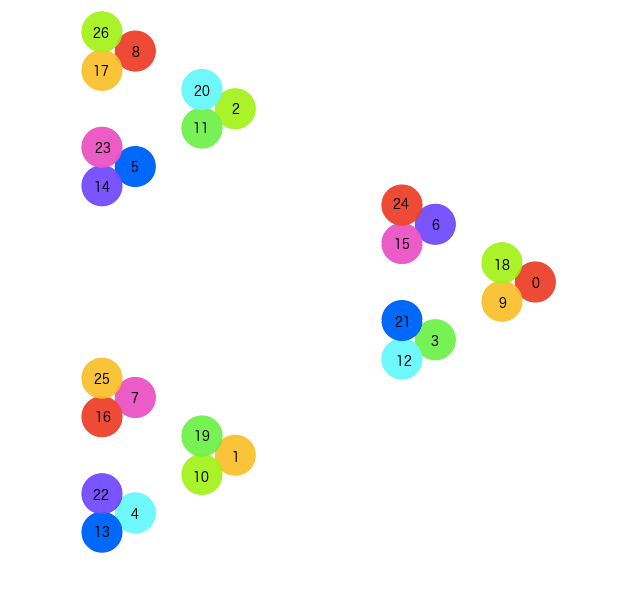
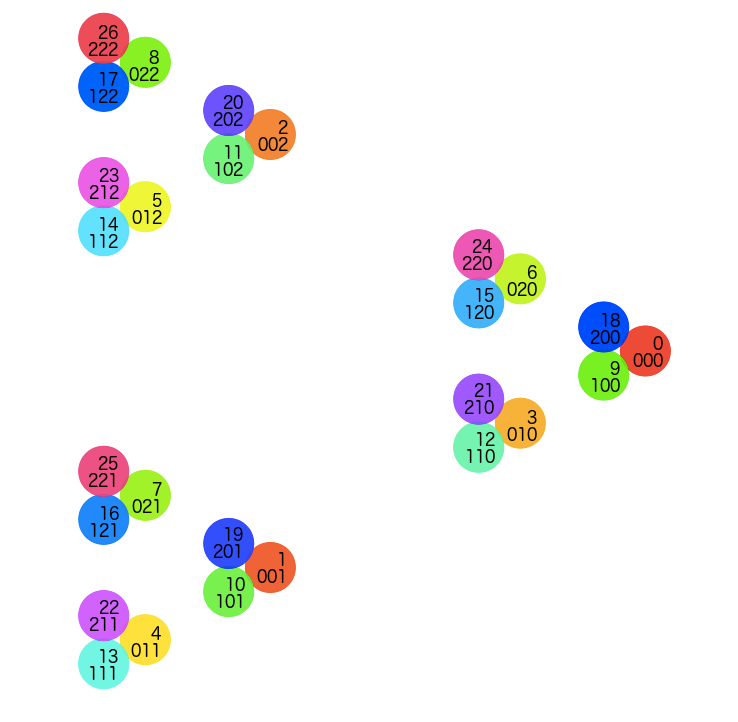
P-adic number post edits

diff --git a/posts/2018-07-25-padic-numbers.html b/posts/2018-07-25-padic-numbers.html
@@ -44,20 +44,22 @@
 </div>
 
 <p>How do we calculate how far apart numbers are?</p>
-<p>This would seem to be an easy questions; just subtract them. 5 is 3 units away from 2, whatever we’re counting. And most of the time, that’s the best answer.</p>
+<p>This would seem to be an easy question; just subtract them. 5 and 2 are 5 - 2 = 3 units away, whatever we’re counting. And most of the time, that’s the best answer.</p>
 <p>But that’s a distance that relies mainly on addition and subtraction. There’s another sort of distance which is more closely related to multiplication, division, and cycles.</p>
 <p>To give a taste of this sort of distance, let’s take hours on a (12-hour) clock. How far apart are 1 and 2? 1 hour. This is the same whether we’re talking about 1 hour of real time passing, 13 hours, or 145 - on the clock, we wrap around every 12 hours. Cycles are a common part of our life; additive and subtractive distances assume that everything can grow infinitely apart, but those aren’t the only sort of distances in our experience.</p>
-<p>This sort of arithmetic, “modular arithmetic”, is an interesting subject in itself. P-adic distances take these cycles a step farther: we can have our cycles, then cycles on cycles, then cycles on cycles on cycles. (Cue a “Yo Dawg” meme here.) We want to be able to <em>refine</em> our analysis at every level. So let’s begin our descent.</p>
-<p>(Specifically, p-adic numbers are going to deal with <em>prime</em> cycles, hence the p-. So we’ll have 3-adic, 5-adic, 7-adic, but not 6-adic numbers. But the reasons why won’t be relevant to the discussion here.)</p>
+<p>This sort of clock arithmetic, “modular arithmetic”, is an interesting subject in itself. P-adic distances take these cycles a step farther: we can have our cycles, then cycles on cycles, then cycles on cycles on cycles. (Cue a “Yo Dawg” meme here.) We want to be able to <em>refine</em> our analysis at every level. So let’s begin our descent.</p>
+<p>(Specifically, p-adic numbers use <em>prime</em> cycles, hence the p-. So we’ll have 3-adic, 5-adic, 7-adic, but not 6-adic numbers. But the reasons why won’t be relevant to the discussion here.)</p>
 <h3 id="cyclical-refinements">Cyclical Refinements</h3>
-<p>Let’s work in the 3-adic norm:</p>
+<p>Let’s work with 3-adic numbers:</p>
 <div class="figure">
 <img src="../images/3-adic.png" alt="3-adic numbers" />
 <p class="caption">3-adic numbers</p>
 </div>
-<p>As one might expect, everything is in threes. The main idea is this: first, we take a number (say 29) and calculate what it is modulo 3 (that is, what is the remainder when divided by 3). This is 2. This first step will take us a distance of 1 from the center, angled toward the top; a number like 10 which is 1 modulo 3 would be in the bottom triangle, and any clean multiple of 3 would be in the rightmost one. (The precise angles are unimportant, as long as we can space them in thirds around the center.)</p>
+<p>As one might expect, everything is in threes. The main idea is this: first, we take a number (say 29) and calculate what it is modulo 3 (that is, what is the remainder when divided by 3). This is 2. This first step will take us a distance of 1 from the center, angled toward the top; a number like 10 which is 1 modulo 3 would be angled toward the bottom triangle, and any clean multiple of 3 toward the rightmost one. (The precise angles are unimportant, as long as we can space them in thirds around the center.)</p>
 <p>But unlike modular arithmetic, we don’t stop there. That’s just the information we got from the first cycle of 3s; what about the next one? That is, how do these numbers compare with regard to 3<em>3, and 3</em>3*3, and so on?</p>
-<p>If you care about how we can calculate these steps: we do it by representing each number in base-3. So 0 is 0, 1 is 1, 2 is 2 … then 3 is 10. 10 is 101, 29 is 1002. Normally, we represent numbers in base-10, so the furthest digit right is the 1s place (10^0), then the 10s place (10^1), then 100s (10^2), and so on. Different bases work the same way, building off of powers of the base. So in base-3, we have a 1s place, a 3s place, a 9s place, a 27s place, and so on. Then the digit furthest right gives us the first triangle we go to:</p>
+<p>We start by representing each number in base-3. So 0 is 0, 1 is 1, 2 is 2 … then 3 is 10. 10 is 101, 29 is 1002.<br />
+Normally, we represent numbers in base-10, so the furthest digit right is the 1s place (10^0), then the 10s place (10^1), then 100s (10^2), and so on. Other bases work the same way, building off of powers of the base. So in base-3, we have a 1s place, a 3s place, a 9s place, a 27s place, and so on.</p>
+<p>The digit furthest right gives us the first triangle destination:</p>
 <div class="figure">
 <img src="../images/3-adic-3.png" alt="3-adic: 0 to 2" />
 <p class="caption">3-adic: 0 to 2</p>
@@ -72,32 +74,48 @@
 <img src="../images/3-adic-27.png" alt="3-adic: 0 to 26" />
 <p class="caption">3-adic: 0 to 26</p>
 </div>
-<p>as far as we want to go. (If you know how to calculate different bases, make sure to work out for yourself that the numbers above have been placed correctly.)</p>
-<p>Representing numbers in different bases isn’t all that unusual, however. That would leave these the same old numbers as always, just with funny costumes. The thing we’ll be doing differently is that, with each digit left we traverse, we’ll make our steps <em>smaller</em>. Normally, we think of changing the 10s place as being much more of an event than changing the 1s place, with the 100s place even more so. And with our normal additive and subtractive distances, that is true. But we’re looking at cycles here. The first cycle, given by our number modulo 3, is the biggest sorter of numbers. After that, we’re making continual <em>refinements</em> - 6 and 18 are both multiples of 3, so are more like each other than either is to 7 in that regard, but 18 is also a multiple of 9, which makes it a little three-ier than 6. It not only can come back to the start in a cycle of 3, but also in 3 cycles of 3. 54 can manage 3 cycles of 3 cycles of 3.</p>
-<p>We can also view these numbers around a circle, given by their distance from 0:</p>
+<p>as far as we want to go.</p>
+<p>Representing numbers in different bases isn’t all that unusual, however. That would leave these the same old numbers as always, just with funny costumes. What we’ll be doing differently is that, with each digit left we traverse, we’ll make our steps <em>smaller</em>. Normally, we think of changing the 10s place as being much more of an event than changing the 1s place, with the 100s place even more so. And with our normal additive and subtractive distances, that is true. But we’re looking at cycles here. The first cycle, given by our number modulo 3, is the biggest sorter of numbers. After that, we’re making continual <em>refinements</em> - 6 and 18 are both multiples of 3, so are more like each other than either is to 7 in that regard, but 18 is also a multiple of 9, which makes it a little three-ier than 6. It not only can come back to the start in a cycle of 3, but also in 3 cycles of 3. 54 can manage 3 cycles of 3 cycles of 3.</p>
+<p>This also leads to a principle of <em>coherence</em>. Let’s take our second level of triangles again:</p>
+<div class="figure">
+<img src="../images/3-adic-9.png" alt="3-adic: Focus on 5" />
+<p class="caption">3-adic: Focus on 5</p>
+</div>
+<p>5 is 12 in base-3 notation (2 in the 1s place, 1 in the 3s place, to give 2<em>1 + 1</em>3 = 5). Now, we add another layer:</p>
+<div class="figure">
+<img src="../images/3-adic-27-2.png" alt="3-adic: Focus on 5, another layer deep" />
+<p class="caption">3-adic: Focus on 5, another layer deep</p>
+</div>
+<p>Take a look at the dots surrounding 5 (12). We just prefix each one by a different digit; 5 is 012 (putting a zero in front doesn’t change the number), 14 is 112, and 23 is 212. As we zoom in, we add our new digits to the left, but everything in that spot will share the same base digits. You can check this out with the triangles starting with 2 and 8 as well.</p>
+<p>So at each step, we tweak our numbers a little more. We take our triangles, and separate them out into triangles, and separate those out into triangles. The farther left we go in our digits, the <em>smaller</em> the distances become, and the closer our new triads of numbers will be in 3-adic distances. This is what will create new numbers for us.</p>
+<p>(We can also view these numbers around a circle, given by their distance from 0:</p>
 <div class="figure">
 <img src="../images/3-adic-circle.png" alt="3-adic norm around a circle" />
 <p class="caption">3-adic norm around a circle</p>
 </div>
-<p>So at each step, we tweak our numbers a little more. We take our triangles, and separate them out into triangles, and separate those out into triangles. The farther left we go in our digits, the <em>smaller</em> the distances become. This is what will create new numbers for us.</p>
-<p>To try out different norms and to watch them animate as numbers flow from one to the next, go to: <a href="https://nomicflux.github.io/PadicVisualization/" class="uri">https://nomicflux.github.io/PadicVisualization/</a>.</p>
+<p>To try out different norms and to watch them animate as numbers flow from one to the next, go to: <a href="https://nomicflux.github.io/PadicVisualization/" class="uri">https://nomicflux.github.io/PadicVisualization/</a>.)</p>
 <h3 id="new-numbers">New Numbers</h3>
 <p>Normally, with numbers, we can create fractions. Then we “fill the gaps” between those fractions; that is how we get the irrational numbers, like pi. We can find the cracks in between any two fractions, and go one level deeper; if we follow all these paths left in between the cracks, we can end up with a <em>completion</em> of the rational numbers, the numbers represented by fractions.</p>
-<p>P-adic numbers have their fractions too, which I won’t get into here (in the visualization, think about being able to zoom out one set of triangles at a time; we can do that a finite number of times, but if you think about it, this doesn’t change the overall picture much. We’ve just added another level of triangles in a stack that’s already triangles all the way down). Remember, sizes and distances are given by how close the numbers are concerning cycles of 3 (or 5, or 7, or other numbers we might be using to compare them). So when we <em>complete</em> this system by filling in the cracks, we won’t be working our way between fractions in the same way. We’ll be finding numbers yet three-ier than have been found before.</p>
-<p>The distance between, say, 3 and 2 is 1; they are not even in the same starting triangle. 5 and 2 are in the same starting triangle, though; 5 - 2 is 3, but the distance will be closer than 1. So we’ll say it’s 1/3 (details on why would require a more in-depth study; for now, the important part is just that it must be smaller than 1 so that the numbers are closer, more three-ly together). 11 - 2 is 9, which being 3*3 must give an even smaller distance, which we’ll say is 1/9; this means that 2 and 11 are not only in the same starting triangle, but the same second-level triangle. So remember that as odd as this seems, it translates literally into how close the numbers are in the visualization:</p>
+<p>P-adic numbers have their fractions too, which I won’t get into here (in the visualization, think about being able to zoom out one extra set of triangles at a time; we can do that a finite number of times, but if you think about it, this doesn’t change the overall picture much. We’ve just added another level of triangles in a stack that’s already triangles all the way down). Remember, sizes and distances are given by how close the numbers are concerning cycles of 3 (or 5, or 7, or other numbers we might be using to compare them). So when we <em>complete</em> this system by filling in the cracks, we won’t be working our way between fractions in the same way. We’ll be finding numbers yet three-ier than have been found before, charting new paths within:</p>
+<div class="figure">
+<img src="../images/3-adic-27-path.png" alt="3-adic: Making a path" />
+<p class="caption">3-adic: Making a path</p>
+</div>
+<p>The distance between, say, 3 and 2 is 1; they are not even in the same starting triangle. 5 and 2 are in the same starting triangle, though; 5 - 2 is 3, but the distance will be closer than 1. So we’ll say it’s 1/3 (details on why would require a more in-depth study; for now, the important part is just that it must be smaller than 1 so that the numbers are closer, more three-ly together). 11 - 2 is 9, which being 3*3 must give an even smaller distance, which we’ll say is 1/9; this means that 2 and 11 are not only in the same starting triangle, but the same second-level triangle. So remember that as odd as this new distance seems, it translates literally into how close the numbers are in the visualization:</p>
 <div class="figure">
 <img src="../images/3-adic-27.png" alt="3-adic: 0 to 26, redux" />
 <p class="caption">3-adic: 0 to 26, redux</p>
 </div>
-<p>To fill this in, we’ll need to extend the numbers outward to the left, exploring numbers which in regards to three-iness are always going one triangle deeper in than what we have. We can extend this to infinity, just like we would go to the right in normal distances with 3.14159…. to get pi.</p>
-<p>When we simply wrote our numbers in base-3, they were the same numbers donning a tri-corner hat. When we changed the way we calculated distances between them, they started getting a little odd, perhaps imbibing too much at the math social. Now, however, we have created an entirely new set of numbers, by tracing paths deeper and deeper into the triangle abyss. Our tipsy digits have launched an expedition to the Pacific and found the ruins of R’lyeh with all it contains. These new numbers simply <em>do not exist</em> in the normal number system. They cannot be created in it, cannot be represented in it.</p>
-<p>(I will not explore the following point more in this article, but in addition to creating eldritch numerosities, we have created a number of numbers which we already know. For example, in 3-adic numbers written in base-3, what would be ….22222 + 1? Carrying the 1 out to infinity, we get - 0. ….22222 is then -1. Starting from positive integers, we have gotten negatives for free. If you play around a bit, you can find that we also have numbers we would have regarded as fractions in our normal numbers, but constructible as these infinite integers.)</p>
+<p>To fill this our paths, we’ll need to extend the numbers outward to the left, exploring numbers which in regards to three-iness are always going one triangle deeper in than what we have. We can extend this to infinity, just like we would keep going to the right in normal distances with 3.14159… to get pi.</p>
+<p>When we simply wrote our numbers in base-3, they were the same numbers donning tri-corner hats. When we changed the way we calculated distances between them, they started getting a little odd, perhaps imbibing too much at the math social. Now, however, we have created an entirely new set of numbers, by tracing paths deeper and deeper into the triangle abyss. Our tipsy digits have launched an expedition to the Pacific and found the ruins of R’lyeh with all it contains. These new numbers simply <em>do not exist</em> in the normal number system. They cannot be created in it, cannot be represented in it.</p>
+<p>(I will not explore the following point more in this article, but in addition to creating eldritch numerosities, we have created a number of numbers that we already know. For example, in 3-adic numbers written in base-3, what would be ….22222 + 1? Carrying the 1 out to infinity, we get: 0. ….22222 is then -1. Starting from positive integers, we have gotten negatives for free. If you play around a bit, you can find that we also have numbers we would have regarded as fractions in our normal numbers, but constructible as these infinite integers.)</p>
 <h3 id="continuous-analysis">Continuous Analysis</h3>
-<p>This completion of a p-adic number system allows for something quite unusual: we have created a <em>continuous</em> number system (of course, mathematically, that was what we were going for; a system where all Cauchy sequences converge). So we can do calculus with these new numbers, using most of the rules we may have learned and lov… well, learned once upon a time.</p>
-<p>The reason this is so weird, however, is that our p-adic number system is entirely based on how divisible numbers are. We have taken the concept of breaking down numbers into discrete chunks, entirely concerned with the whole blocks we can make from things, and made it analyzable by a field which is entirely concerned with how we can make infinitesimal but continuous changes and record the impact. P-adic numbers unite these disparate mathematical disciplines, granting us access to a new toolbox which shouldn’t work, but does. It’s like finding a way to turn a philosphy degree into a paying, non-academic job. (Before the hatemail arrives, this is a point taken from personal experience).</p>
+<p>This completion of a p-adic number system allows for something quite unusual: we have created a <em>continuous</em> number system (of course, mathematically, that was what we were going for; a system where all Cauchy sequences converge).<br />
+We can do calculus with these new numbers, using most of the rules we may have learned and lov… well, learned once upon a time.</p>
+<p>The reason this is so weird, however, is that our p-adic number system is entirely based on how divisible numbers are. We have taken the concept of breaking down numbers into discrete chunks, entirely concerned with the whole blocks we can make from counting and use to make numbers, and made it analyzable by techniques entirely concerned with infinitesimal but continuous changes and their impact. P-adic numbers unite these disparate mathematical disciplines, granting us access to a new toolbox which shouldn’t work, but does. It’s like finding a way to turn a philosphy degree into a paying, non-academic job. (Before the hatemail arrives, this is a point taken from personal experience.)</p>
 <p>I will give one example before closing out this post. Around Calculus II in the US curriculum, we start learning about series. In particular, there is the Taylor series of a function (wikipedia refresher <a href="https://en.wikipedia.org/wiki/Taylor_series">here</a>): we can take a function and analyze it at a single point. We first take the value of the function at that point, then we take the tangent line at that point using the first derivative. We keep adding on derivatives to further nuance our approximation. It is like being an ant on the function, trying to reconstruct the entire curve based just on the nuances available right around you. Some functions lend themselves well to this analysis; others will give very different approximations based on how they look from different points.</p>
-<p>The key takeaway is that we can analyse functions locally to get a picture of the whole from that point. P-adic numbers are effectively doing the same thing with numbers; instead of derivatives, we are viewing number modulo higher and higher powers of p. (This is not just a metaphor; the mathematics is very close, and in fact this insight is behind the creation of the p-adic numbers).</p>
-<p>Most works on the p-adic numbers will dive in more starting with this point. My point here is to have generated some of the intuitive, visual appreciation for these oddities, and to provide a launching pad for further study.</p>
+<p>The key takeaway is that we can analyse functions locally to get a picture of the whole from that point. P-adic numbers are effectively doing the same thing with numbers; instead of derivatives, we are viewing number modulo higher and higher powers of p. (This is not just a metaphor; this insight is behind the creation of the p-adic numbers).</p>
+<p>Most works on the p-adic numbers will dive in deeper starting with this insight. My point here is to have generated some of the intuitive, visual appreciation for these oddities, and to provide a launching pad for further study.</p>
 
 <hr />
 <a name="comments"></a>
